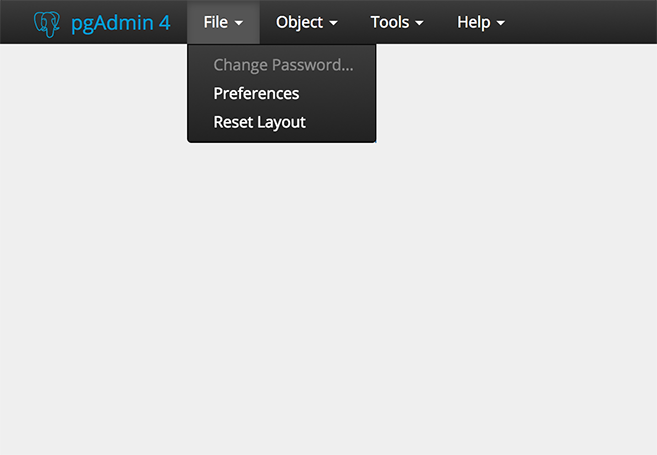
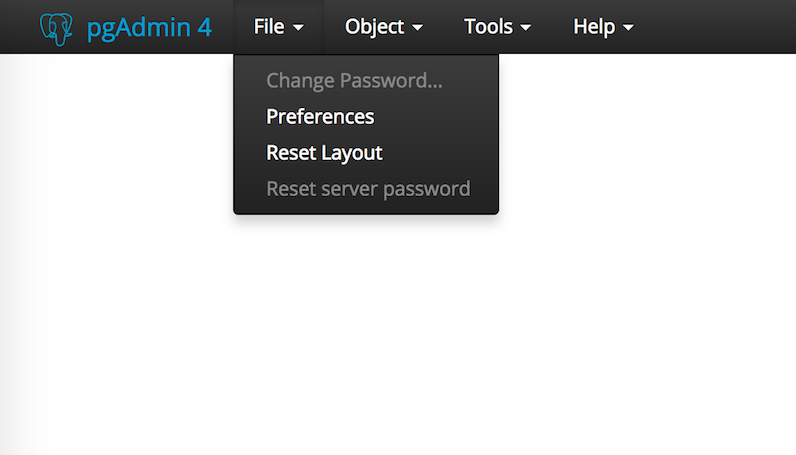
Add support for reset saved password. Fixes #3074

Changed region(s): [[0.0, 0.0, 1.0, 0.4923]]

diff --git a/web/pgadmin/browser/server_groups/servers/static/js/server.js b/web/pgadmin/browser/server_groups/servers/static/js/server.js
@@ -107,6 +107,17 @@ define('pgadmin.node.server', [
           applies: ['tools', 'context'], callback: 'resume_wal_replay',
           category: 'wal_replay_resume', priority: 8, label: gettext('Resume Replay of WAL'),
           icon: 'fa fa-play-circle', enable : 'wal_resume_enabled',
+        },{
+          name: 'reset_server_password', node: 'server', module: this,
+          applies: ['file', 'context'], callback: 'reset_server_password',
+          label: gettext('Reset server password'), icon: 'fa fa-eraser',
+          enable: function(node) {
+            if (node && node._type === 'server' &&
+              node.connected !== true && node.is_password_saved) {
+              return true;
+            }
+            return false;
+          },
         }]);
 
         _.bindAll(this, 'connection_lost');
@@ -595,6 +606,46 @@ define('pgadmin.node.server', [
             Alertify.pgRespErrorNotify(xhr, error);
             t.unload(i);
           });
+        },
+
+        /* Reset stored database server password */
+        reset_server_password: function(args){
+          var input = args || {},
+            obj = this,
+            t = pgBrowser.tree,
+            i = input.item || t.selected(),
+            d = i && i.length == 1 ? t.itemData(i) : undefined;
+
+          if (!d)
+            return false;
+
+          Alertify.confirm(
+            gettext('Reset server password'),
+            S(
+              gettext('Are you sure you want to reset the stored password for server %s?')
+            ).sprintf(d.label).value(),
+            function() {
+              $.ajax({
+                url: obj.generate_url(i, 'reset_server_password', d, true),
+                method:'PUT',
+              })
+              .done(function(res) {
+                if (res.success == 1) {
+                  Alertify.success(res.info);
+                  t.itemData(i).is_password_saved=res.data.is_password_saved;
+                }
+                else {
+                  Alertify.error(res.info);
+                }
+              })
+              .fail(function(xhr, status, error) {
+                Alertify.pgRespErrorNotify(xhr, error);
+              });
+            },
+            function() { return true; }
+          );
+
+          return false;
         },
       },
       model: pgAdmin.Browser.Node.Model.extend({

diff --git a/web/pgadmin/browser/server_groups/servers/__init__.py b/web/pgadmin/browser/server_groups/servers/__init__.py
@@ -137,7 +137,9 @@ class ServerModule(sg.ServerGroupPluginModule):
                 db=manager.db,
                 user=manager.user_info if connected else None,
                 in_recovery=in_recovery,
-                wal_pause=wal_paused
+                wal_pause=wal_paused,
+                is_password_saved=True if server.password is not None
+                else False
             )
 
     @property
@@ -248,7 +250,8 @@ class ServerNode(PGChildNodeView):
         'wal_replay': [{
             'delete': 'pause_wal_replay', 'put': 'resume_wal_replay'
         }],
-        'check_pgpass': [{'get': 'check_pgpass'}]
+        'check_pgpass': [{'get': 'check_pgpass'}],
+        'reset_server_password': [{'put': 'reset_server_password'}]
     })
     EXP_IP4 = "^\s*((25[0-5]|2[0-4][0-9]|[01]?[0-9][0-9]?)\." \
               "(25[0-5]|2[0-4][0-9]|[01]?[0-9][0-9]?)\." \
@@ -357,7 +360,9 @@ class ServerNode(PGChildNodeView):
                     db=manager.db,
                     user=manager.user_info if connected else None,
                     in_recovery=in_recovery,
-                    wal_pause=wal_paused
+                    wal_pause=wal_paused,
+                    is_password_saved=True if server.password is not None
+                    else False
                 )
             )
 
@@ -410,7 +415,9 @@ class ServerNode(PGChildNodeView):
                 db=manager.db,
                 user=manager.user_info if connected else None,
                 in_recovery=in_recovery,
-                wal_pause=wal_paused
+                wal_pause=wal_paused,
+                is_password_saved=True if server.password is not None
+                else False
             )
         )
 
@@ -1439,6 +1446,41 @@ class ServerNode(PGChildNodeView):
                     _=gettext
                 )
             )
+
+    def reset_server_password(self, gid, sid):
+        """
+        This function is used to remove database server password stored into
+        the pgAdmin's db file.
+
+        :param gid:
+        :param sid:
+        :return:
+        """
+        try:
+            server = Server.query.filter_by(
+                user_id=current_user.id, id=sid
+            ).first()
+
+            if server is None:
+                return make_json_response(
+                    success=0,
+                    info=gettext("Could not find the required server.")
+                )
+
+            setattr(server, 'password', None)
+            db.session.commit()
+        except Exception as e:
+            current_app.logger.error(
+                "Unable to reset password.\nError: {0}".format(str(e))
+            )
+
+            return internal_server_error(errormsg=str(e))
+
+        return make_json_response(
+            success=1,
+            info=gettext("Reset server password successfully."),
+            data={'is_password_saved': False}
+        )
 
 
 ServerNode.register_node_view(blueprint)

diff --git a/docs/en_US/pgadmin_menu_bar.rst b/docs/en_US/pgadmin_menu_bar.rst
@@ -13,15 +13,17 @@ The pgAdmin menu bar provides drop-down menus for access to options, commands, a
 
 Use the *File* menu to access the following options:
 
-+----------------------+---------------------------------------------------------------------------------------------------------+
-| Option               | Action                                                                                                  |
-+======================+=========================================================================================================+
-| *Change Password...* | Click to open the :ref:`Change Password... <change_password_dialog>` dialog to change your password.    |
-+----------------------+---------------------------------------------------------------------------------------------------------+
-| *Preferences*        | Click to open the :ref:`Preferences <preferences>` dialog to to customize your pgAdmin settings.        |
-+----------------------+---------------------------------------------------------------------------------------------------------+
-| *Reset Layout*       | If you have modified the workspace, click to restore the default layout.                                |
-+----------------------+---------------------------------------------------------------------------------------------------------+
++-------------------------+---------------------------------------------------------------------------------------------------------+
+| Option                  | Action                                                                                                  |
++=========================+=========================================================================================================+
+| *Change Password...*    | Click to open the :ref:`Change Password... <change_password_dialog>` dialog to change your password.    |
++-------------------------+---------------------------------------------------------------------------------------------------------+
+| *Preferences*           | Click to open the :ref:`Preferences <preferences>` dialog to to customize your pgAdmin settings.        |
++-------------------------+---------------------------------------------------------------------------------------------------------+
+| *Reset Layout*          | If you have modified the workspace, click to restore the default layout.                                |
++-------------------------+---------------------------------------------------------------------------------------------------------+
+| *Reset server password* | If you have saved the database server password, click to reset the saved password.                      |
++-------------------------+---------------------------------------------------------------------------------------------------------+
 
 **The Object Menu**
 

diff --git a/docs/en_US/release_notes_3_2.rst b/docs/en_US/release_notes_3_2.rst
@@ -11,6 +11,7 @@ Features
 ********
 
 | `Feature #2214 <https://redmine.postgresql.org/issues/2214>`_ - Add support for SCRAM password changes (requires psycopg2 >= 2.8).
+| `Feature #3074 <https://redmine.postgresql.org/issues/3074>`_ - Add support for reset saved password.
 | `Feature #3397 <https://redmine.postgresql.org/issues/3397>`_ - Add support for Trigger and JIT stats in the graphical query plan viewer.
 | `Feature #3506 <https://redmine.postgresql.org/issues/3506>`_ - Allow the user to specify a fixed port number in the runtime to aid cookie whitelisting etc.
 | `Feature #3510 <https://redmine.postgresql.org/issues/3510>`_ - Add a menu option to the runtime to copy the appserver URL to the clipboard.

diff --git a/docs/en_US/reset_passwords.rst b/docs/en_US/reset_passwords.rst
@@ -1,0 +1,13 @@
+.. _reset_passwords:
+
+************************
+`Reset Passwords`:index:
+************************
+
+Use *Reset server password* functionality to reset the saved password for the database server.
+
+.. image:: images/reset_server_password.png
+
+*Reset server password* shows in the context menu for the selected server as well as under the *File* menu on the top menu bar.
+
+**Note:** It will be enabled/visible when the password for the selected database server is already saved.

diff --git a/docs/en_US/server_dialog.rst b/docs/en_US/server_dialog.rst
@@ -92,3 +92,7 @@ Use the fields in the *Advanced* tab to configure a connection:
 * Click the *Save* button to save your work.
 * Click the *Cancel* button to exit without saving your work.
 * Click the *Reset* button to return the values specified on the Server dialog to their original condition.
+
+.. toctree::
+
+    reset_passwords
